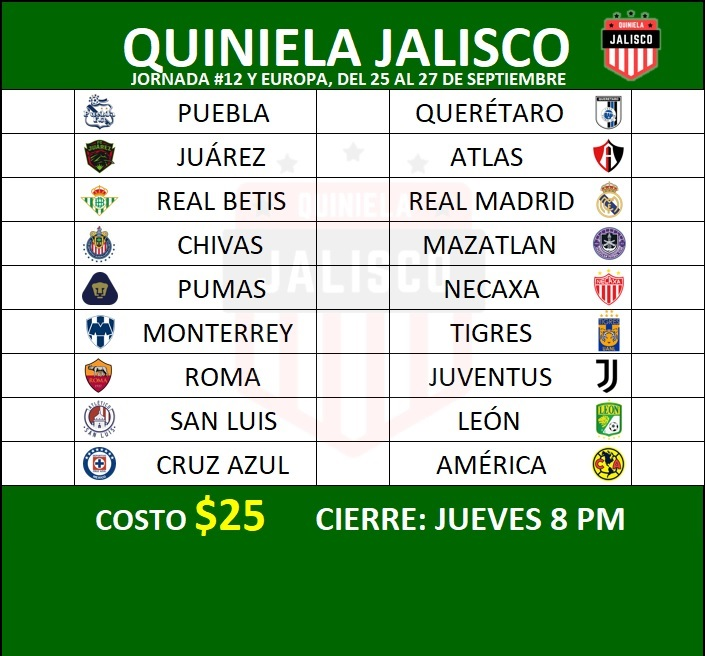
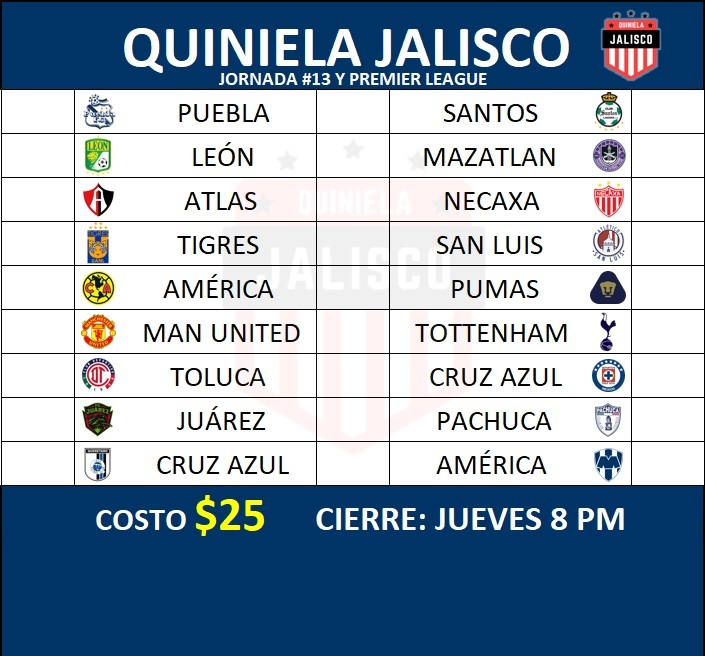
Jornada 13

diff --git a/styles.css b/styles.css
@@ -7,7 +7,7 @@
 
 .quiniela{
     margin: auto;
-    background-image: url("https://scontent.fgdl5-1.fna.fbcdn.net/v/t1.15752-9/119949231_3526323450721412_1208204104114727049_n.png?_nc_cat=110&_nc_sid=ae9488&_nc_ohc=kwXmUdvGGpgAX9gt4ay&_nc_ht=scontent.fgdl5-1.fna&oh=431929b47c4af8c373e01901733d0d65&oe=5F8EF3F2");
+    background-image: url("https://scontent.fgdl9-1.fna.fbcdn.net/v/t1.15752-9/120362634_663243170982480_5924366676229974555_n.png?_nc_cat=103&_nc_sid=ae9488&_nc_ohc=nUg8oR-XkkoAX-UMXgP&_nc_ht=scontent.fgdl9-1.fna&oh=e1a1d7f829819e5d38d7431a88d4c105&oe=5F966A9C");
     background-size: 100%;
     background-repeat: no-repeat;
     max-width: 400px;
@@ -79,8 +79,8 @@ h1{
     margin-top: 8%;
     border: solid 1px black;
     border-radius: 0 0 20px 20px;
-    background: -webkit-linear-gradient(0, black,rgb(0,102,1) 50%);
-    background: linear-gradient(0, black,rgb(0,102,1) 50%);
+    background: -webkit-linear-gradient(0, black,rgb(0,52,102) 30%);
+    background: linear-gradient(0, black,rgb(0,52,102) 30%);
 }
 
 h2,h3, #nombre{
